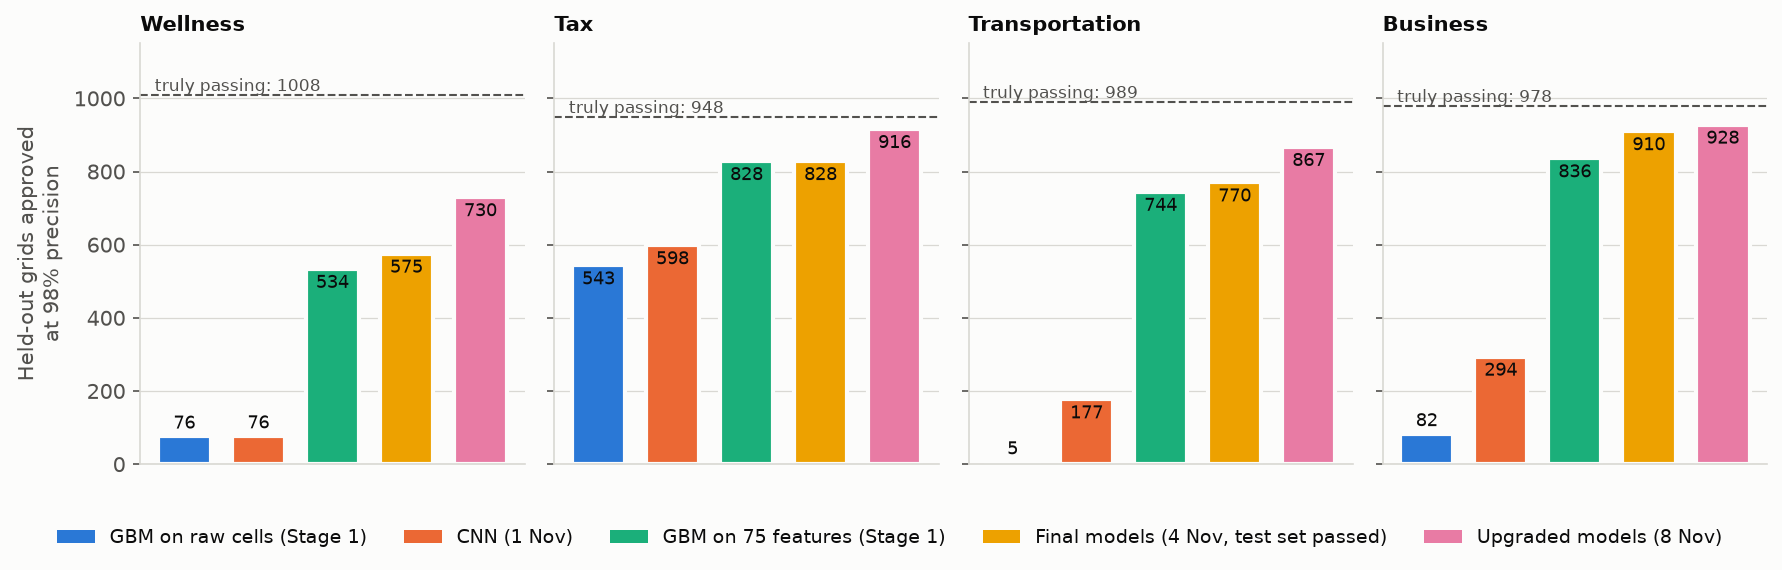
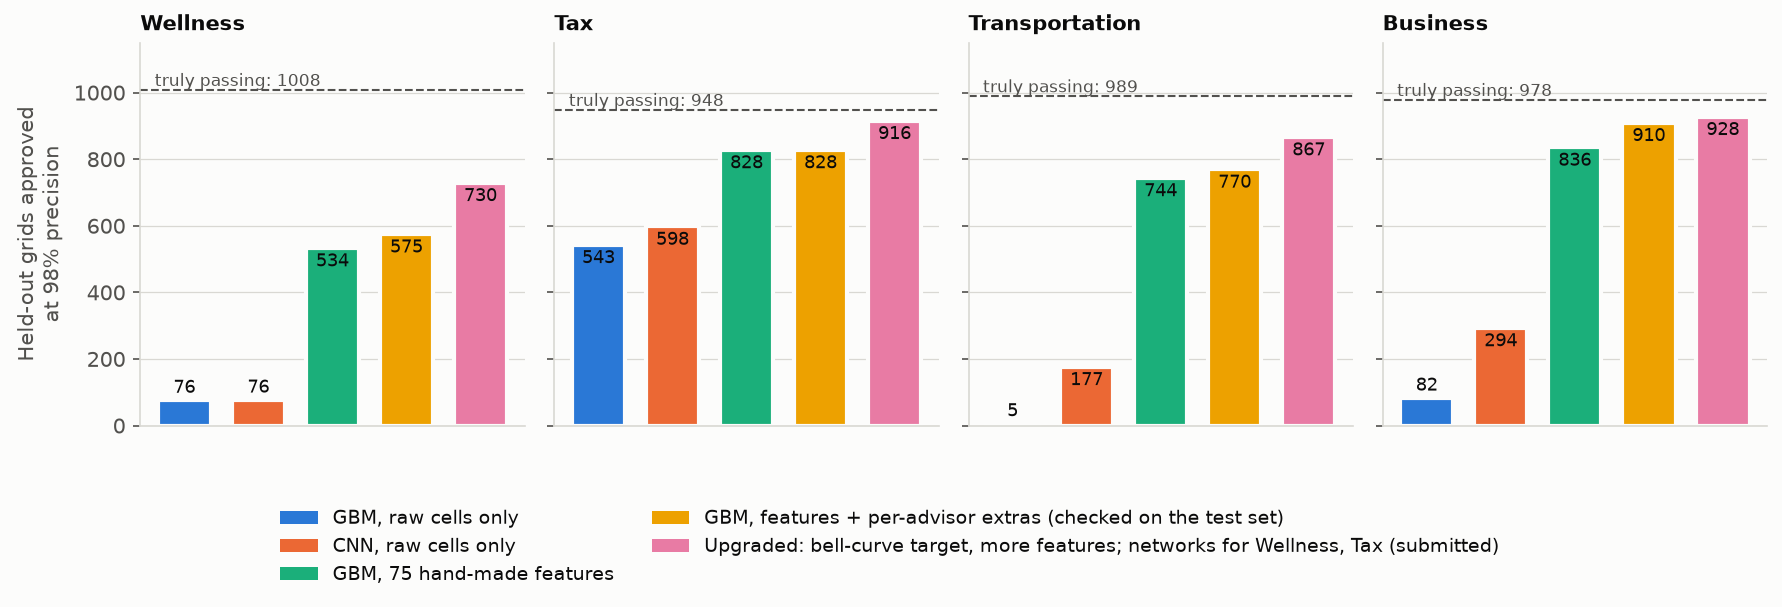
Report model figure: labels say what each model is, not our project stages

diff --git a/make_figures.py b/make_figures.py
@@ -140,12 +140,12 @@ def report():
     """The report's model comparison and failure bands (held out, development ratings only)."""
     grids, dev = validity.load_dev()
     stage1 = validity.scorecard(["gbm_onehot"], verbose=False)["gbm_onehot"]
-    recipes = {
-        "GBM on raw cells (Stage 1)": None,
-        "CNN (1 Nov)": CNN_RUNS,
-        "GBM on 75 features (Stage 1)": dict.fromkeys(validity.ADVISORS, "gbm_engineered"),
-        "Final models (4 Nov, test set passed)": search.INCUMBENT,
-        "Upgraded models (8 Nov)": "upgraded",
+    recipes = {  # labels for readers who don't know the project's stages
+        "GBM, raw cells only": None,
+        "CNN, raw cells only": CNN_RUNS,
+        "GBM, 75 hand-made features": dict.fromkeys(validity.ADVISORS, "gbm_engineered"),
+        "GBM, features + per-advisor extras (checked on the test set)": search.INCUMBENT,
+        "Upgraded: bell-curve target, more features; networks for Wellness, Tax (submitted)": "upgraded",
     }
     rows = {name: {} for name in recipes}
     passing, shares = {}, {}

diff --git a/plots.py b/plots.py
@@ -993,9 +993,9 @@ def fig_model_approvals(rows, passing):
         ax.set_axisbelow(True)
     axes[0].set_ylabel("Held-out grids approved\nat 98% precision")
     handles = [Patch(facecolor=SERIES[i], label=n) for i, n in enumerate(names)]
-    fig.legend(handles=handles, loc="lower center", ncol=len(names),
-               bbox_to_anchor=(0.5, -0.06), fontsize=9)
-    fig.tight_layout(rect=(0, 0.06, 1, 1))
+    fig.legend(handles=handles, loc="lower center", ncol=2, bbox_to_anchor=(0.5, -0.13),
+               fontsize=9)
+    fig.tight_layout(rect=(0, 0.13, 1, 1))
     return fig
 
 
